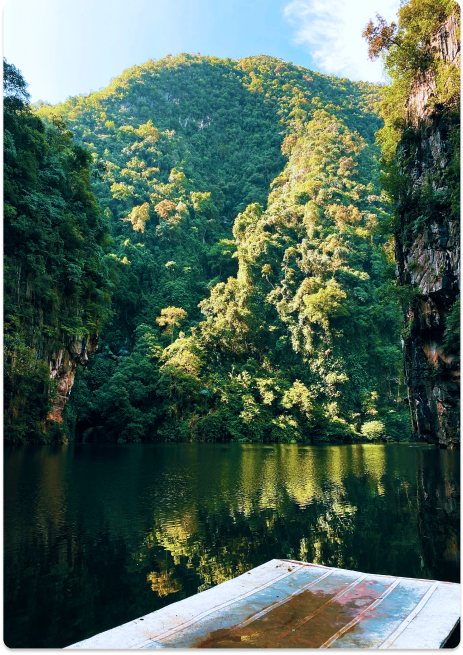
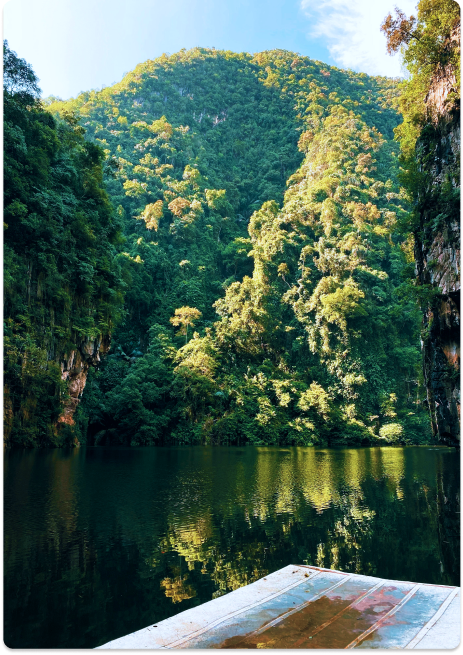
perak state

diff --git a/web/css/state-perak.css b/web/css/state-perak.css
@@ -107,7 +107,7 @@
 .griditem-image img {
     width: 100%;
     height: auto;
-    border-radius: 15px;
+    border-radius: 10px;
 }
 
 .smallerimages {
